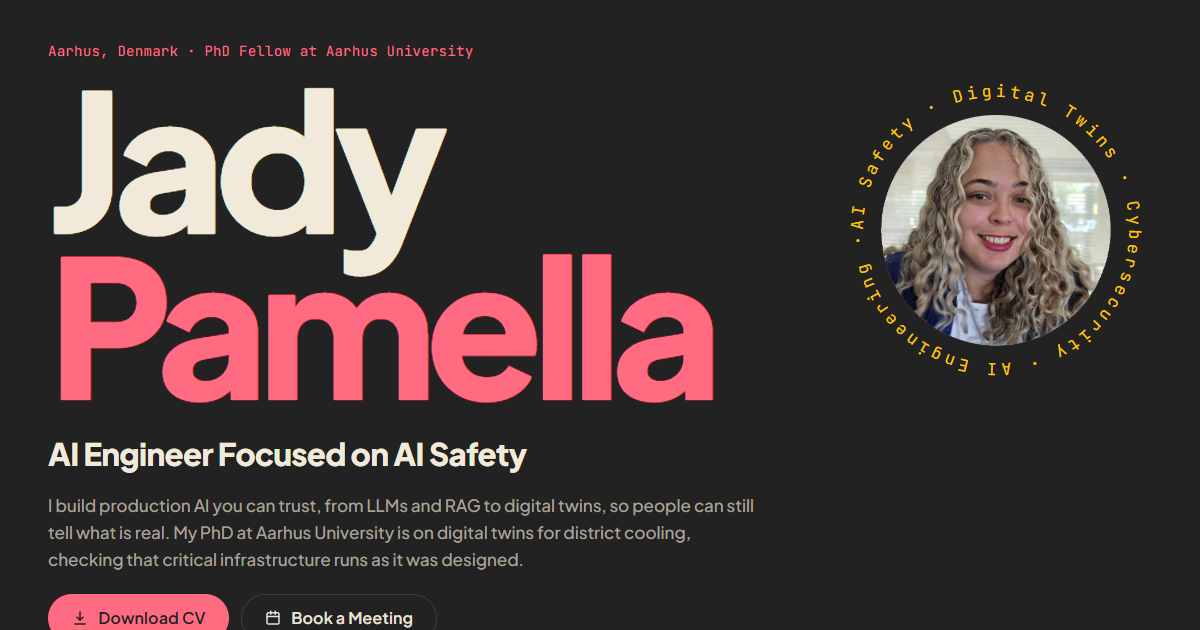
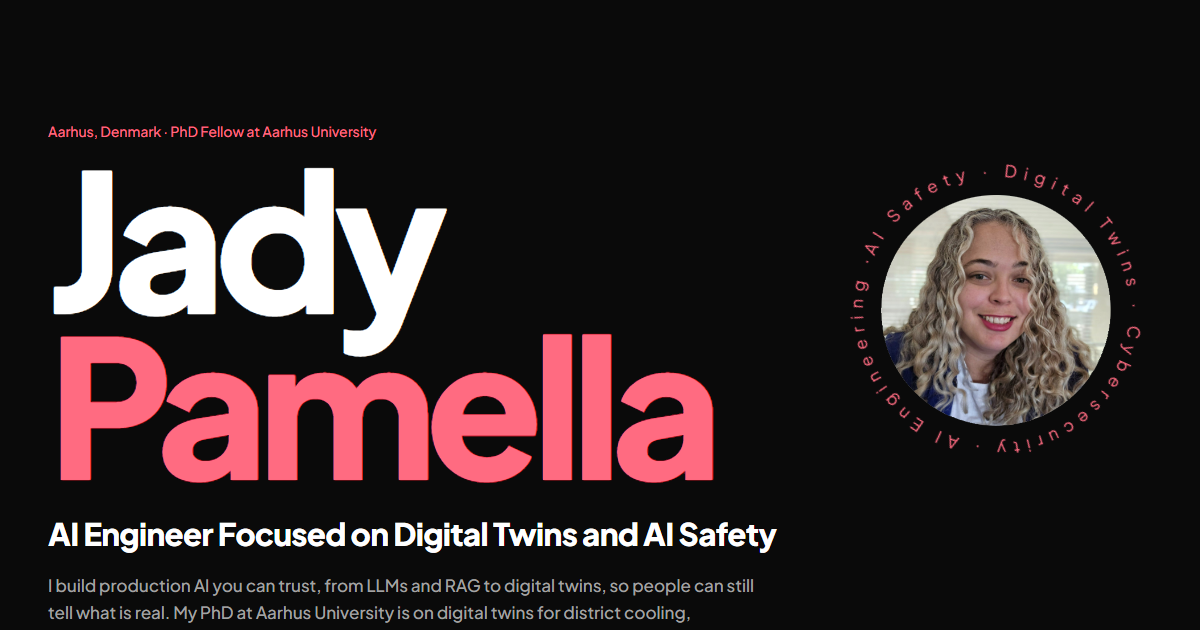
feat(seo): titulo e descricao no tamanho certo, publicacoes no schema, blog com schema, imagem de compartilhamento nova

diff --git a/index.html b/index.html
@@ -4,13 +4,13 @@
 <head>
 <meta charset="utf-8"/>
 <meta content="width=device-width, initial-scale=1" name="viewport"/>
-<title>Jady Pamella, AI Engineer Focused on Digital Twins and AI Safety</title>
-<meta content="Jady Pamella is an AI Engineer Focused on Digital Twins and AI Safety and a PhD Fellow at Aarhus University, building trustworthy AI, digital twins and cybersecurity research." name="description"/>
+<title>Jady Pamella | AI Engineer, Digital Twins and AI Safety</title>
+<meta content="Jady Pamella is a PhD Fellow at Aarhus University and an AI Engineer working on digital twins for district cooling, AI safety and cybersecurity." name="description"/>
 <link href="https://jadypamella.com/" rel="canonical"/>
 <meta content="index, follow" name="robots"/>
 <meta content="#222222" name="theme-color"/>
-<meta content="Jady Pamella, AI Engineer Focused on Digital Twins and AI Safety" property="og:title"/>
-<meta content="Jady Pamella is an AI Engineer Focused on Digital Twins and AI Safety and a PhD Fellow at Aarhus University, building trustworthy AI, digital twins and cybersecurity research." property="og:description"/>
+<meta content="Jady Pamella | AI Engineer, Digital Twins and AI Safety" property="og:title"/>
+<meta content="Jady Pamella is a PhD Fellow at Aarhus University and an AI Engineer working on digital twins for district cooling, AI safety and cybersecurity." property="og:description"/>
 <meta content="https://jadypamella.com/assets/img/og.png" property="og:image"/>
 <meta content="https://jadypamella.com/" property="og:url"/>
 <meta content="website" property="og:type"/>
@@ -20,7 +20,7 @@
 <link crossorigin="" href="https://fonts.gstatic.com" rel="preconnect"/>
 <link href="https://fonts.googleapis.com/css2?family=Plus+Jakarta+Sans:ital,wght@0,400;0,500;0,600;0,700;0,800;1,500&amp;display=swap" rel="stylesheet"/>
 <link href="/css/site.css" rel="stylesheet"/>
-<script type="application/ld+json">{"@context": "https://schema.org", "@graph": [{"@type": "Person", "@id": "https://jadypamella.com/#person", "name": "Jady Pamella", "jobTitle": "AI Engineer Focused on Digital Twins and AI Safety", "description": "I build production AI you can trust, from LLMs and RAG to digital twins, so people can still tell what is real. My PhD at Aarhus University is on digital twins for district cooling, checking that critical infrastructure runs as it was designed.", "email": "mailto:hello@jadypamella.com", "image": "https://jadypamella.com/assets/img/profile.png", "url": "https://jadypamella.com/", "affiliation": {"@type": "CollegeOrUniversity", "name": "Aarhus University"}, "address": {"@type": "PostalAddress", "addressLocality": "Aarhus", "addressCountry": "DK"}, "sameAs": ["https://linkedin.com/in/jadypamella", "https://github.com/jadypamella", "https://medium.com/@jadypamella", "https://calendly.com/jadypamella/meeting", "https://orcid.org/0009-0006-4280-3364", "https://scholar.google.com/citations?user=b8Jt_AgAAAAJ", "https://www.researchgate.net/profile/Jady-Barbacena-Da-Silva", "https://www.scopus.com/authid/detail.uri?authorId=59970410700"]}, {"@type": "WebSite", "@id": "https://jadypamella.com/#website", "url": "https://jadypamella.com/", "name": "Jady Pamella", "author": {"@id": "https://jadypamella.com/#person"}}]}</script>
+<script type="application/ld+json">{"@context": "https://schema.org", "@graph": [{"@type": "Person", "@id": "https://jadypamella.com/#person", "name": "Jady Pamella", "jobTitle": "AI Engineer Focused on Digital Twins and AI Safety", "description": "I build production AI you can trust, from LLMs and RAG to digital twins, so people can still tell what is real. My PhD at Aarhus University is on digital twins for district cooling, checking that critical infrastructure runs as it was designed.", "email": "mailto:hello@jadypamella.com", "image": "https://jadypamella.com/assets/img/profile.png", "url": "https://jadypamella.com/", "affiliation": {"@type": "CollegeOrUniversity", "name": "Aarhus University"}, "address": {"@type": "PostalAddress", "addressLocality": "Aarhus", "addressCountry": "DK"}, "sameAs": ["https://linkedin.com/in/jadypamella", "https://github.com/jadypamella", "https://medium.com/@jadypamella", "https://calendly.com/jadypamella/meeting", "https://orcid.org/0009-0006-4280-3364", "https://scholar.google.com/citations?user=b8Jt_AgAAAAJ", "https://www.researchgate.net/profile/Jady-Barbacena-Da-Silva", "https://www.scopus.com/authid/detail.uri?authorId=59970410700"], "knowsAbout": ["Digital twins", "District cooling", "Fault detection", "Building Information Modelling", "AI safety", "Cybersecurity", "Machine learning"]}, {"@type": "WebSite", "@id": "https://jadypamella.com/#website", "url": "https://jadypamella.com/", "name": "Jady Pamella", "author": {"@id": "https://jadypamella.com/#person"}}, {"@type": "ScholarlyArticle", "name": "Enhancing Cybersecurity in the Judiciary: Integrating Additional Controls into the CIS Framework", "datePublished": "2025", "url": "https://doi.org/10.1016/j.cose.2025.104584", "author": {"@id": "https://jadypamella.com/#person"}, "isPartOf": {"@type": "Periodical", "name": "Computers and Security"}}, {"@type": "ScholarlyArticle", "name": "Cybersecurity Challenges: An Analysis of the Brazilian Public Administration", "datePublished": "2026", "url": "https://doi.org/10.3895/rts.v22n69.20157", "author": {"@id": "https://jadypamella.com/#person"}, "isPartOf": {"@type": "Periodical", "name": "Revista Tecnologia e Sociedade"}}, {"@type": "ScholarlyArticle", "name": "Cybersecurity Protection in the Brazilian Judiciary: A Comparative Study of State Court Security Structures", "datePublished": "2024", "url": "https://doi.org/10.22279/navus.v14.2032", "author": {"@id": "https://jadypamella.com/#person"}, "isPartOf": {"@type": "Periodical", "name": "NAVUS Journal of Technology and Management"}}, {"@type": "Dataset", "name": "Security Controls for Judiciary Risk Management", "datePublished": "2025", "url": "https://doi.org/10.21227/h9q6-sv58", "author": {"@id": "https://jadypamella.com/#person"}, "publisher": {"@type": "Organization", "name": "IEEE DataPort"}}]}</script>
 <script>try{var t=localStorage.getItem("theme");if(t)document.documentElement.setAttribute("data-theme",t)}catch(e){}</script>
 </head>
 <body>

diff --git a/blog/index.html b/blog/index.html
@@ -21,6 +21,7 @@
 <link href="https://fonts.googleapis.com/css2?family=Plus+Jakarta+Sans:ital,wght@0,400;0,500;0,600;0,800;1,500&amp;display=swap" rel="stylesheet"/>
 <link href="/css/site.css" rel="stylesheet"/>
 <script>try{var t=localStorage.getItem("theme");if(t)document.documentElement.setAttribute("data-theme",t)}catch(e){}</script>
+<script type="application/ld+json">{"@context": "https://schema.org", "@graph": [{"@type": "Blog", "name": "Writing by Jady Pamella", "url": "https://jadypamella.com/blog/", "author": {"@id": "https://jadypamella.com/#person"}}, {"@type": "BreadcrumbList", "itemListElement": [{"@type": "ListItem", "position": 1, "name": "Home", "item": "https://jadypamella.com/"}, {"@type": "ListItem", "position": 2, "name": "Writing", "item": "https://jadypamella.com/blog/"}]}]}</script>
 </head>
 <body>
 <a class="skip" href="#main">Skip to Content</a>

diff --git a/Jady_Pamella_CV_EA.html b/Jady_Pamella_CV_EA.html
@@ -7,6 +7,7 @@
 <!DOCTYPE html>
 <html lang="en">
 <head>
+<meta name="robots" content="noindex">
     <meta charset="UTF-8">
     <meta name="viewport" content="width=device-width, initial-scale=1.0">
     <title>Jady Pamella, AI Engineer focused on AI Safety (EA CV)</title>
